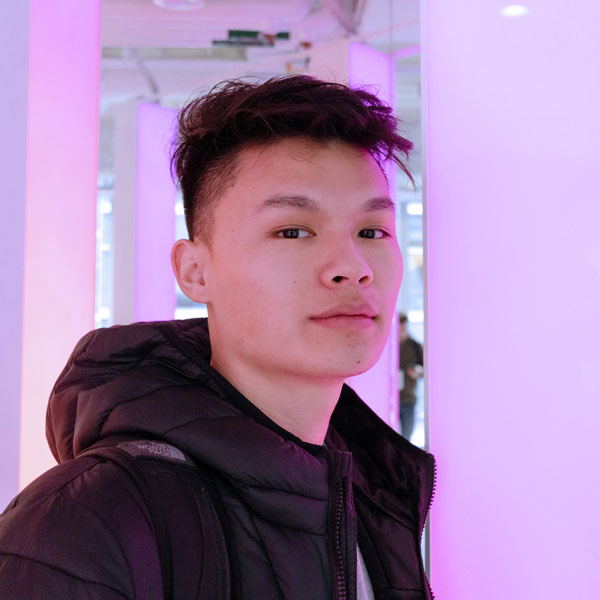
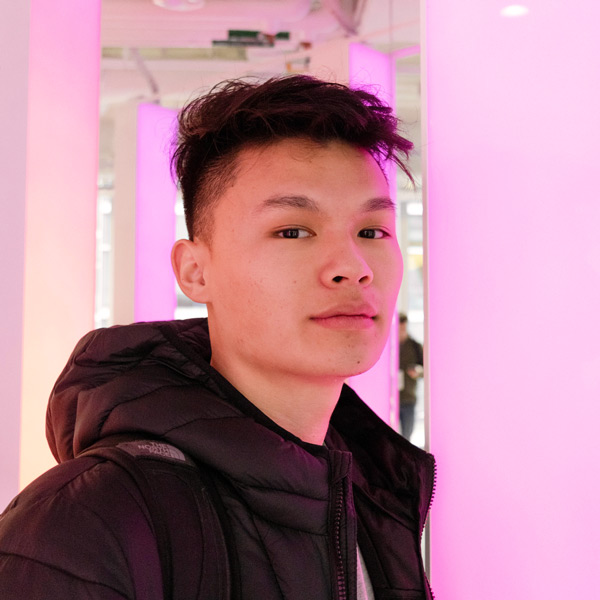
update portrait, a11y

diff --git a/src/components/Nav.js b/src/components/Nav.js
@@ -7,21 +7,20 @@ export default function Nav(props) {
     <header style={{ marginBottom: SPACER3 }}>
       <nav className="head-nav">
         <ul className="nav__list">
-          <div>
-            <li>
-              <Link 
-                to="/" 
-                className={
-                  "nav__list__item " + 
-                  (props.from === "home" ? "nav__list__item--active" : undefined)
-                }
-                style={{ marginRight: SPACER2 }}
-              >
-                Andrew Zhen
-              </Link>
-            </li>
-          </div>
-          <div className="nav__list">
+          <li>
+            <Link 
+              to="/" 
+              className={
+                "nav__list__item " + 
+                (props.from === "home" ? "nav__list__item--active" : undefined)
+              }
+              style={{ marginRight: SPACER2 }}
+              tabIndex="0"
+            >
+              Andrew Zhen
+            </Link>
+          </li>
+          <ul className="nav__list">
             <li>
               <Link 
                 to="/about" 
@@ -30,6 +29,7 @@ export default function Nav(props) {
                   (props.from === "about" ? "nav__list__item--active" : undefined)
                 }
                 style={{ marginRight: SPACER2 }}
+                tabIndex="0"
               >
                 About
               </Link>
@@ -45,7 +45,7 @@ export default function Nav(props) {
                 Contact
               </Link>
             </li>
-          </div>
+          </ul>
         </ul>
       </nav>
     </header>

diff --git a/src/Pages/About.js b/src/Pages/About.js
@@ -18,7 +18,7 @@ export default function About() {
         <Blurb text="75% dev, 24% design, and 1% noodles" />
 
         <div className="two-column">
-          <div style={{ marginBottom: SPACER3 }}>
+          <div style={{ marginBottom: SPACER5 }}>
             <p style={{ marginBottom: SPACER1 }}>
               Hi! I'm a new graduate from UCSD where I studied Cognitive Science – Design Interaction as well as a bit of Computer Science and Data Science.
             </p>
@@ -41,6 +41,8 @@ export default function About() {
               className="two-column__image"
               src={"images/portrait.jpg"} 
               alt="portrait"
+              width="450px"
+              height="450px"
             />
             <div  className="left-dropOff"></div>
           </div>

diff --git a/src/css/index.scss b/src/css/index.scss
@@ -361,9 +361,14 @@ a {
   z-index: 2;
   left: 0;
   top: 0;
-  height: 100%;
-  width: 10rem;
+  height: 450px; //portrait height
+  width: 8rem;
   background: linear-gradient(90deg, $default-background-color 0%, rgba(17,17,17,0) 100%);
+
+  @include lg {
+    height: 35vw;
+    width: 10vw;
+  }
 
   @include md {
     height: 10rem;
@@ -385,6 +390,14 @@ a {
     }
   }
 
+  & > *:first-child {
+    margin-right: $spacer3;
+
+    @include md {
+      margin-right: 0;
+    }
+  }
+
   @at-root #{&}__list {
     top: -$spacer1;
 
@@ -394,11 +407,14 @@ a {
   }
 
   @at-root #{&}__image {
-    width: 30vw;
-    max-width: 30rem;
+    @include lg {
+      width: 35vw;
+      height: 35vw;
+    }
 
     @include md {
       width: 100%;
+      height: 100%;
     }
   }
 

diff --git a/src/components/Footer.js b/src/components/Footer.js
@@ -5,7 +5,7 @@ export default function Footer() {
   return (
     <footer className="foot-nav">
       <ul className="nav__list">
-        <div className="nav__list nav__list--foot">
+        <ul className="nav__list nav__list--foot">
           <li style={{ marginRight: SPACER2 }}>
             <a 
               href="mailto:andrewjzhen@gmail.com"
@@ -34,11 +34,11 @@ export default function Footer() {
               LinkedIn
             </a>
           </li>
-        </div>
+        </ul>
 
-        <div>
+        <li>
           <p id="year">&#169; 2021</p>
-        </div>
+        </li>
       </ul>
     </footer>
   );

diff --git a/src/components/ContactFooter.js b/src/components/ContactFooter.js
@@ -4,13 +4,13 @@ export default function ContactFooter() {
   return (
     <footer className="foot-nav">
       <ul className="nav__list">
-        <div className="nav__list">
-          <p>*Updated January 2021</p>
-        </div>
+        <li className="nav__list">
+          <p>*Updated Jan 2021</p>
+        </li>
 
-        <div>
+        <li>
           <p>&#169; 2021</p>
-        </div>
+        </li>
       </ul>
     </footer>
   );

diff --git a/src/Pages/Contact.js b/src/Pages/Contact.js
@@ -53,6 +53,8 @@ export default function Contact() {
               className="two-column__image" 
               src={"images/contact.jpg"} 
               alt=""
+              width="450px"
+              height="450px"
             />
             <div className="left-dropOff"></div>
           </div>
